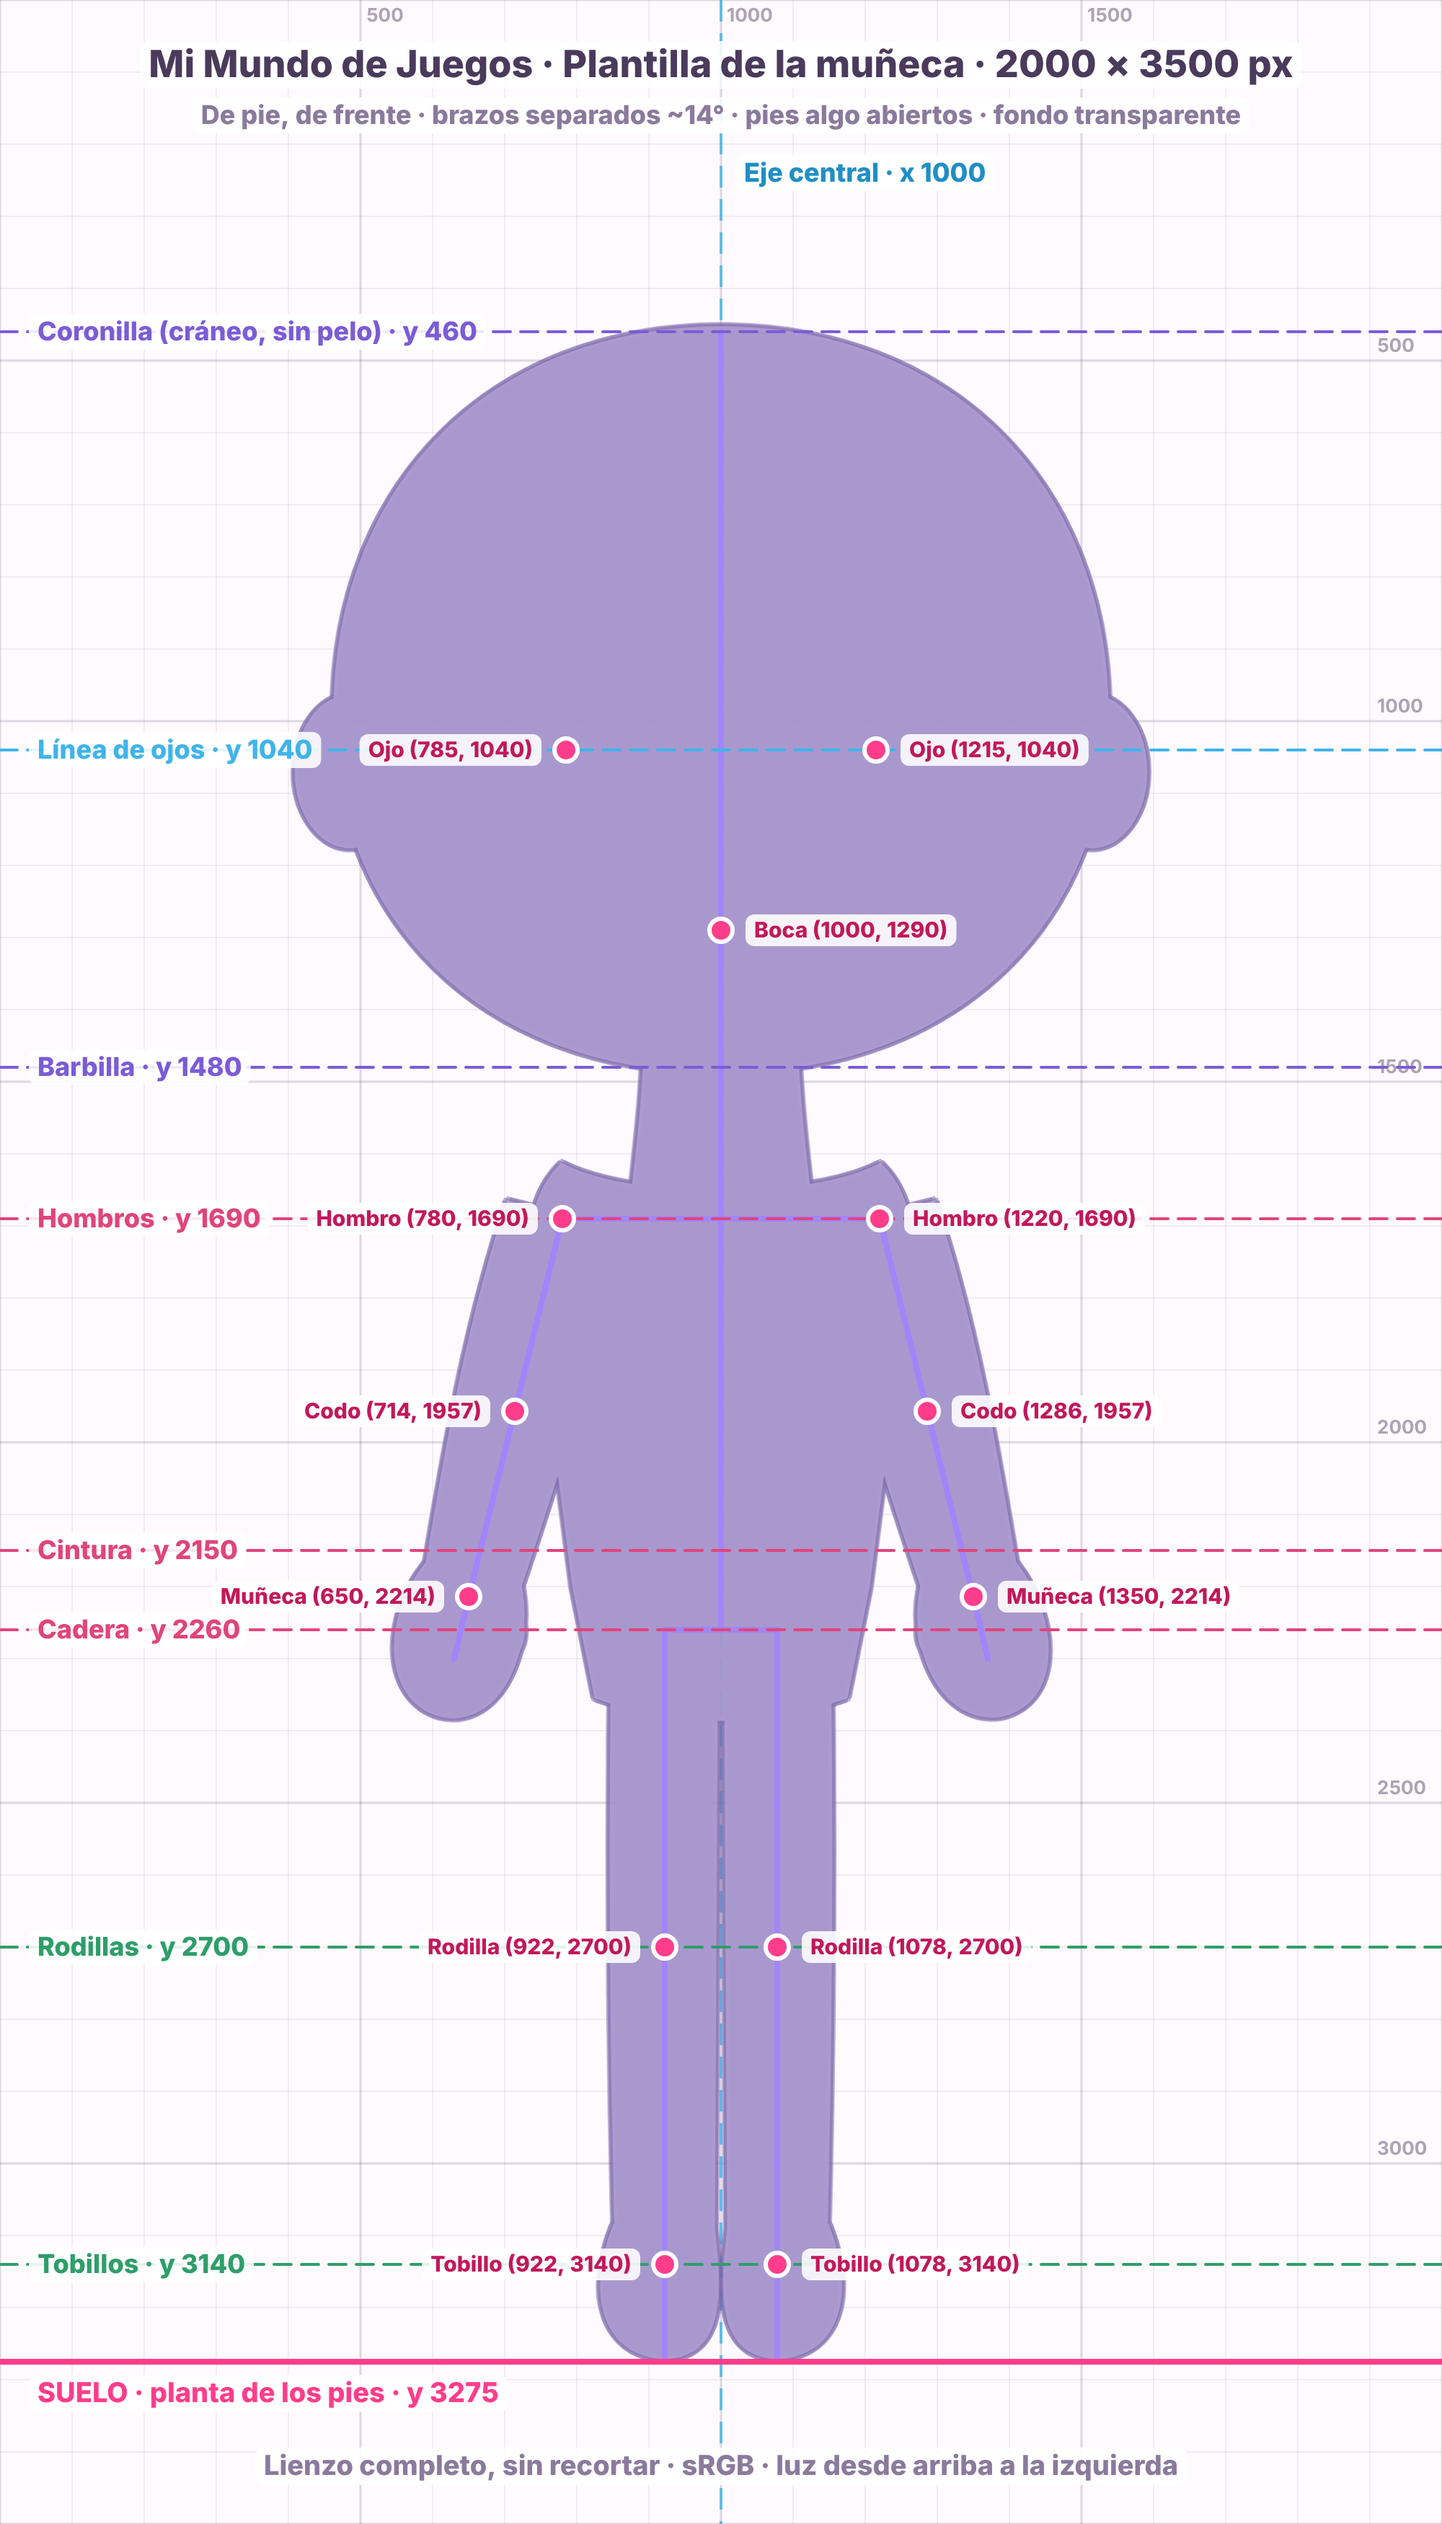
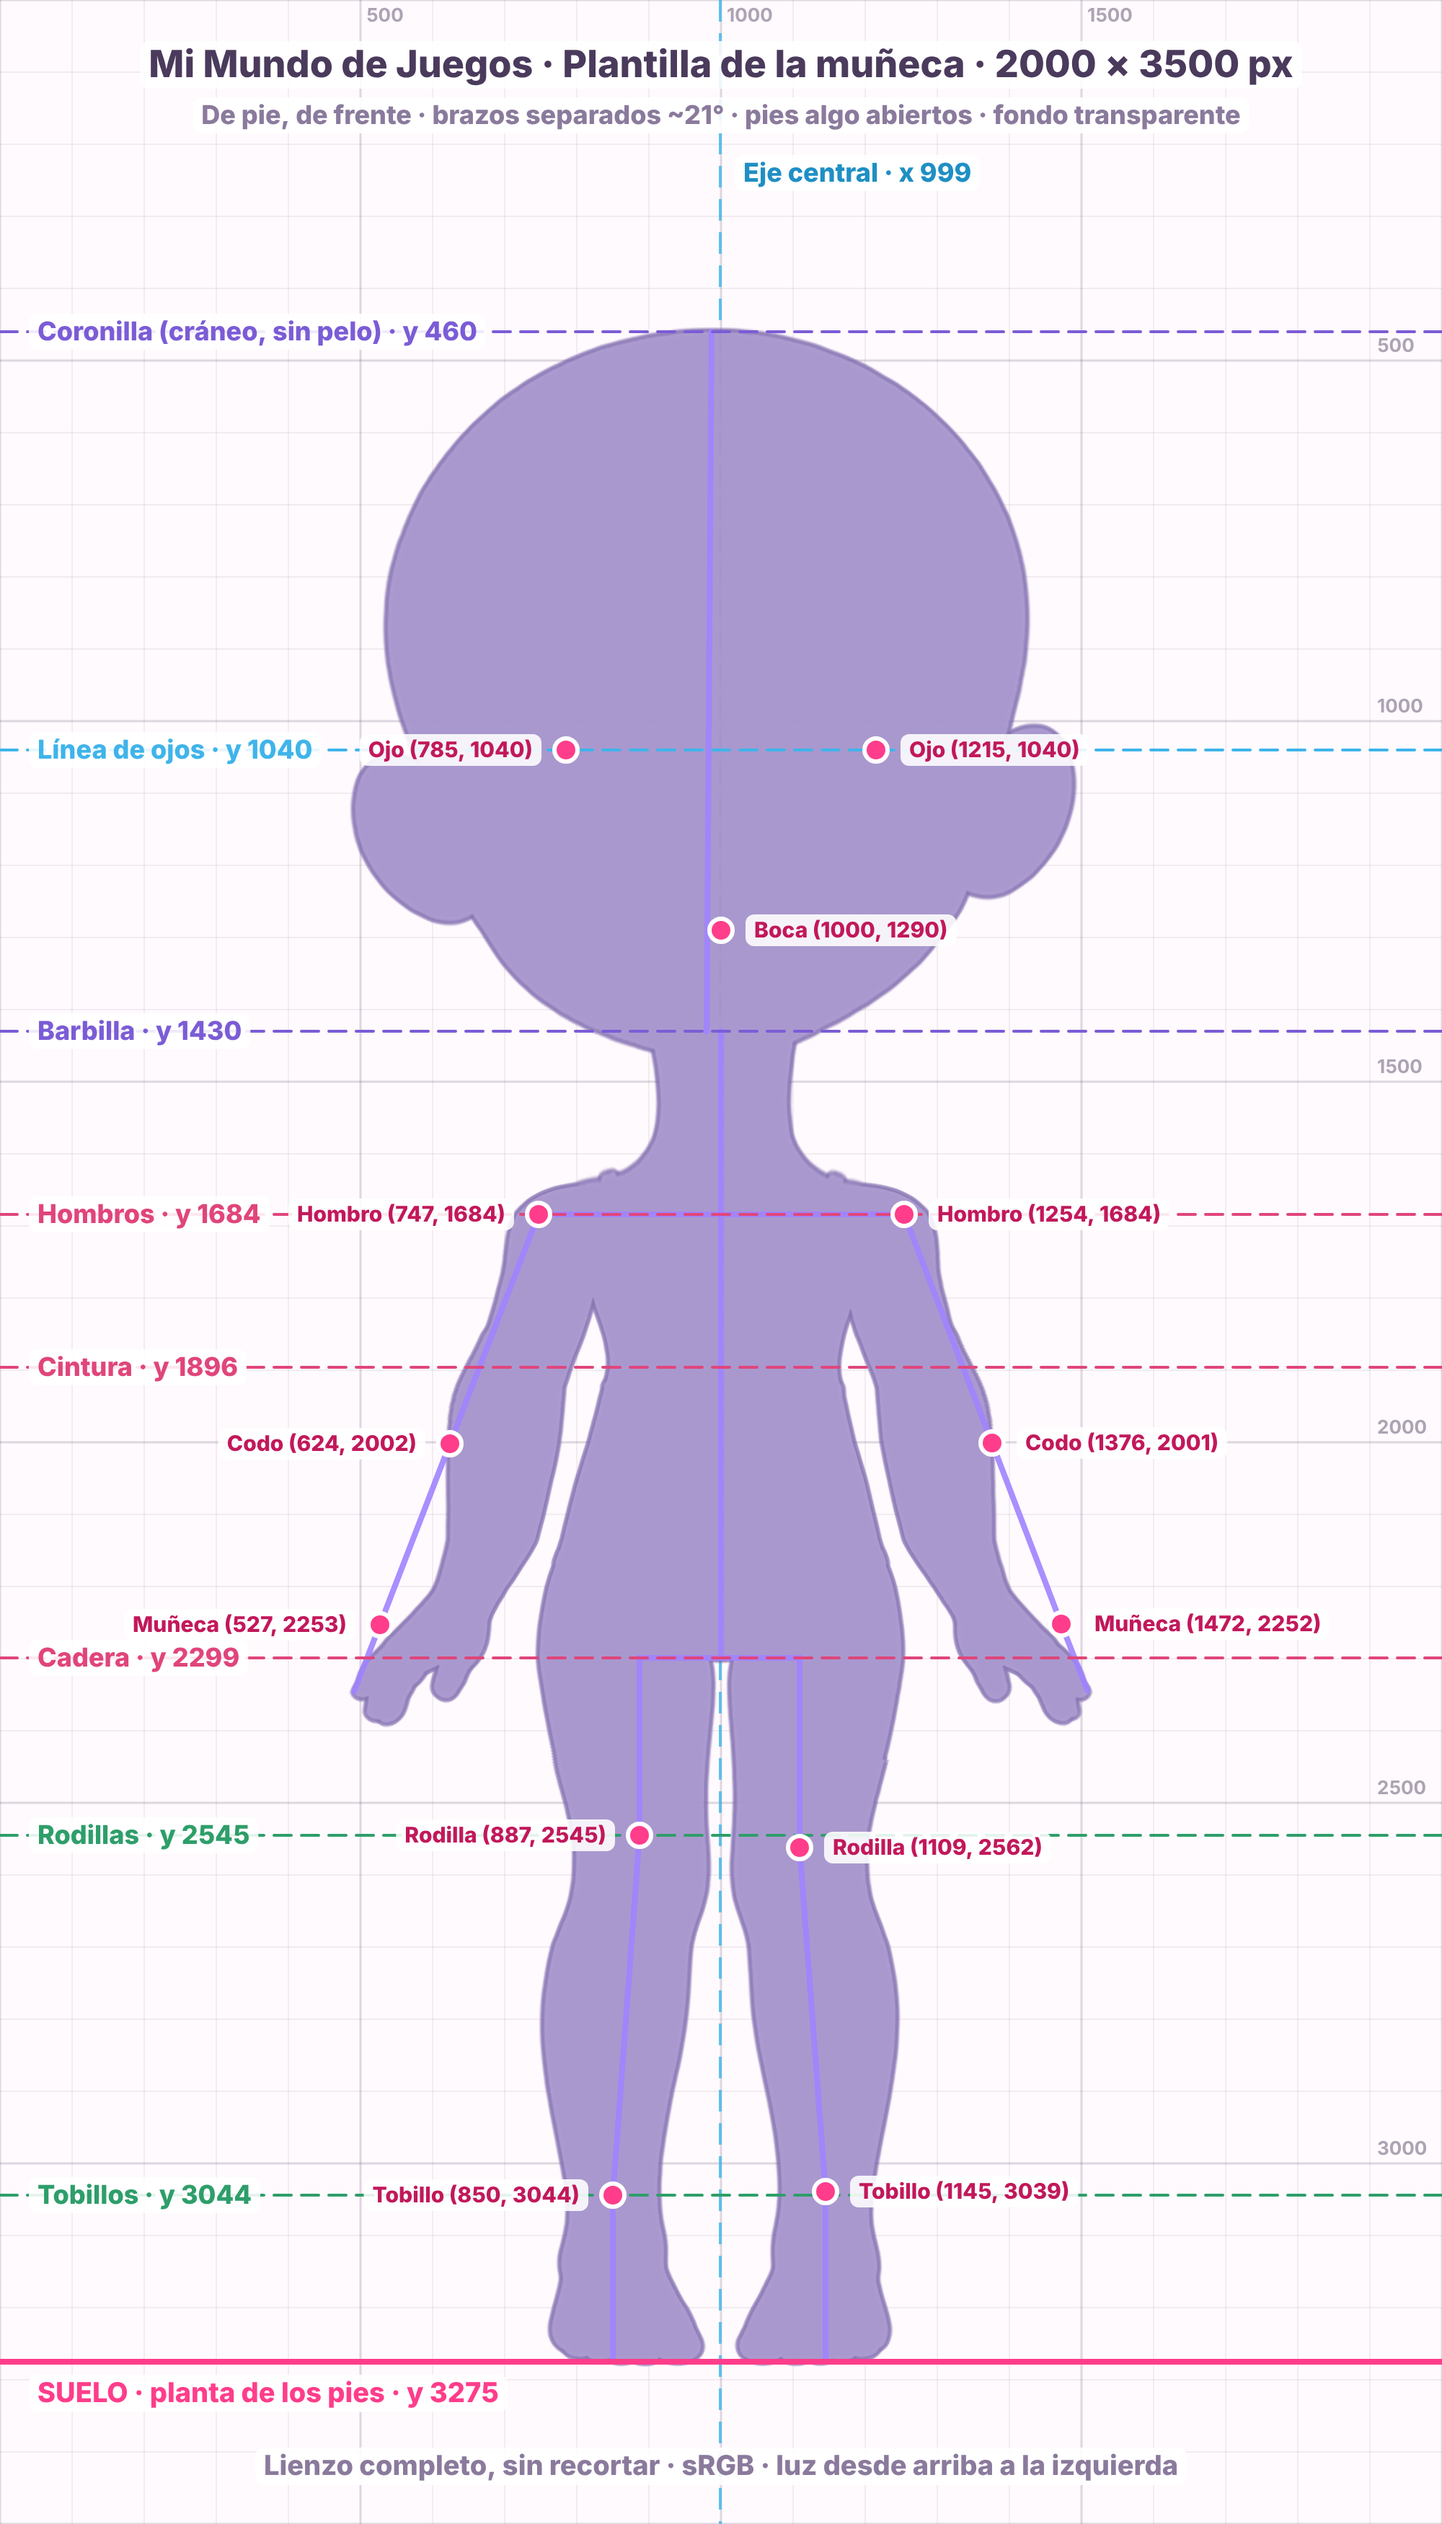
Plantilla definitiva con la base premium V2.1 aprobada
- arte/originales/base-clara.png: base premium V2.1 (codos y muslo
  retocados; cabeza, cuello y pies iguales que la V2).
- plantilla.js v2: medidas tomadas de la base (hombros 1684, cintura
  1896, cadera 2299, brazos a 21°…) y zonas de base, ropa y zapatos.
- Láminas de la plantilla y guías por pieza (ojos, pelo, vestido,
  zapatos y corona) generadas a partir de la base aprobada.
- Instrucciones y lista de archivos con las medidas nuevas.
- El juego sigue con la muñeca provisional hasta que lleguen ojos,
  pelo y ropa; ?arte=borrador muestra la base premium.
- Service worker v7.

Claude-Session: https://claude.ai/code/session_013yH6JXVk52qU5Y74NLTK6f

diff --git a/plantilla/plantilla.js b/plantilla/plantilla.js
@@ -4,37 +4,38 @@
    Lo usan: el comprobador de capas, el optimizador y el catálogo.
    ===================================================================== */
 self.AV_PLANTILLA = {
-  version: 1,
+  version: 2,
   lienzo: { w: 2000, h: 3500 },
-  postura: 'De pie, de frente, peso en las dos piernas, brazos relajados y separados del cuerpo unos 14°, palmas hacia las piernas, pies algo separados y un poco abiertos.',
+  postura: 'De pie, de frente, peso en las dos piernas, brazos relajados y separados del cuerpo unos 21°, palmas hacia las piernas, pies algo separados y un poco abiertos.',
   anclas: {
-    eje: 1000,             // línea central vertical del cuerpo
+    eje: 999,             // línea central vertical del cuerpo
     suelo: 3275,           // planta de los pies (sin zapatos)
-    coronilla: [1000, 460], // parte alta del cráneo, sin pelo
+    coronilla: [987, 460], // parte alta del cráneo, sin pelo
     cabeza: [1000, 970],    // centro de la cara
     ojos: 1040, ojoIzq: [785, 1040], ojoDer: [1215, 1040],
     boca: [1000, 1290],
-    barbilla: [1000, 1480],
-    hombroIzq: [780, 1690], hombroDer: [1220, 1690],
-    codoIzq: [714, 1957], codoDer: [1286, 1957],
-    munecaIzq: [650, 2214], munecaDer: [1350, 2214],
-    manoIzq: [630, 2300], manoDer: [1370, 2300],
-    cintura: 2150, cinturaIzq: 830, cinturaDer: 1170,
-    cadera: 2260,
-    rodillaIzq: [922, 2700], rodillaDer: [1078, 2700],
-    tobilloIzq: [922, 3140], tobilloDer: [1078, 3140],
-    pieIzq: [922, 3275], pieDer: [1078, 3275],
+    barbilla: [980, 1430],
+    hombroIzq: [747, 1684], hombroDer: [1254, 1684],
+    codoIzq: [624, 2002], codoDer: [1376, 2001],
+    munecaIzq: [527, 2253], munecaDer: [1472, 2252],
+    manoIzq: [491, 2346], manoDer: [1508, 2344],
+    cintura: 1896, cinturaIzq: 846, cinturaDer: 1160,
+    cadera: 2299,
+    rodillaIzq: [887, 2545], rodillaDer: [1109, 2562],
+    tobilloIzq: [850, 3044], tobilloDer: [1145, 3039],
+    pieIzq: [850, 3275], pieDer: [1145, 3275],
   },
   // Rectángulo donde puede haber dibujo en cada tipo de pieza [x0, y0, x1, y1]
   zonas: {
-    base:          { r: [380, 380, 1620, 3340], color: '#a083ff', nombre: 'Muñeca base' },
+    base:          { r: [451, 420, 1548, 3335], color: '#a083ff', nombre: 'Muñeca base' },
     'pelo-detras': { r: [100, 150, 1900, 2700], color: '#c98b55', nombre: 'Pelo (detrás)' },
     'pelo-delante':{ r: [150, 150, 1850, 2500], color: '#ff8f5a', nombre: 'Pelo (delante)' },
     ojos:          { r: [560, 880, 1440, 1220], color: '#3d8ee0', nombre: 'Ojos' },
-    ropa:          { r: [300, 1450, 1700, 3300], color: '#ff6fae', nombre: 'Ropa' },
-    zapatos:       { r: [700, 2950, 1300, 3340], color: '#3fb4ea', nombre: 'Zapatos' },
+    ropa:          { r: [411, 1400, 1588, 3305], color: '#ff6fae', nombre: 'Ropa' },
+    zapatos:       { r: [590, 2784, 1405, 3340], color: '#3fb4ea', nombre: 'Zapatos' },
     acc:           { r: [0, 0, 2000, 3500], color: '#5fd39b', nombre: 'Accesorios' },
   },
+  // Medidas tomadas de la base con herramientas/medir_base.py
   // Márgenes de error para el comprobador (px en el lienzo de 2000 × 3500)
   tolerancia: { aviso: 8, error: 20 },
 };

diff --git a/sw.js b/sw.js
@@ -3,7 +3,7 @@
 // llevan una huella del contenido, así nunca se muestra una versión antigua.
 importScripts('avatar/arte/piezas.js');
 // Subir la versión cada vez que cambie un archivo de FILES (no hace falta para el arte: lleva huella).
-const C='mis-juegos-v6',ARTE='mis-juegos-arte';
+const C='mis-juegos-v7',ARTE='mis-juegos-arte';
 const FILES=['./','./index.html','./manifest.json','./icon-192.png','./icon-512.png','./avatar/avatar.css','./avatar/catalogo.js','./avatar/catalogo-muneca.js',
   './avatar/motor.js','./avatar/arte/piezas.js','./plantilla/plantilla.js'];
 const PIEZAS=Object.values((self.AV_PIEZAS||{}).piezas||{}).flatMap(p=>Object.values(p.v).map(u=>'./'+u));

diff --git a/avatar/arte/piezas.js b/avatar/arte/piezas.js
@@ -10,6 +10,20 @@ self.AV_PIEZAS = {
   "m": 0.5
  },
  "piezas": {
+  "base-clara": {
+   "x": 480,
+   "y": 460,
+   "w": 1040,
+   "h": 2820,
+   "v": {
+    "s": "avatar/arte/s/base-clara.5682c2d0.webp",
+    "m": "avatar/arte/m/base-clara.5682c2d0.webp"
+   },
+   "kb": {
+    "s": 42.9,
+    "m": 80.1
+   }
+  },
   "demo-diario": {
    "x": 60,
    "y": 360,

diff --git a/plantilla/ASSETS.md b/plantilla/ASSETS.md
@@ -7,6 +7,11 @@ En cuanto estos archivos estén en `arte/originales/` y pasen el comprobador, el
 muñeca premium en lugar de la provisional, sin tocar el código (`herramientas/optimizar.py`
 y listo).
 
+## Base aprobada
+
+`arte/originales/base-clara.png` (V2.1, aprobada): cuello de 214 px, hombros en y 1684, brazos a 21°.
+Las medidas están en `plantilla/plantilla.js` (versión 2) y cada capa tiene su guía en `plantilla/guias/`.
+
 ## Proporciones acordadas para la base definitiva
 
 * Cabeza grande, mejillas sonrosadas y acabado de ilustración infantil premium (como la base v1).
@@ -24,7 +29,7 @@ y listo).
 | Tamaño | **2000 × 3500 px exactos** |
 | Lienzo | **Completo, sin recortar.** Cada pieza en su sitio dentro del lienzo; el optimizador la recorta después y guarda su posición |
 | Transparencia | **Sí, obligatoria.** Todo lo que no es la pieza, transparente (sin fondo, sin sombra en el suelo) |
-| Plantilla | **Sí.** Eje x = 1000, suelo y = 3275, línea de ojos y = 1040 (ver `plantilla-guia.png`) |
+| Plantilla | **Sí.** Eje x = 999, suelo y = 3275, línea de ojos y = 1040 (ver `plantilla-guia.png`) |
 | Encaje | Todas las piezas dibujadas **sobre la misma muñeca base**, sin moverla ni escalarla entre una y otra |
 | Luz | Desde arriba a la izquierda, igual en todas las piezas |
 | Bordes | Antialias limpio, sin halo blanco ni restos de fondo (verde) entre los rizos |
@@ -34,7 +39,7 @@ y listo).
 
 | # | Archivo | Qué contiene | Zona (x, y en px) | ¿Completar lo que queda tapado? |
 |---|---|---|---|---|
-| 1 | `base-clara.png` | Muñeca descalza, piel clara: cabeza, cara **sin ojos** (piel lisa donde van los ojos; sí cejas, nariz, boca sonriente y mejillas), orejas, cuello, brazos y manos, torso con **maillot sencillo** (blanco o rosa muy claro), piernas y pies. **Sin pelo** | 380–1620, 380–3340 | **Sí, todo el cuerpo completo**: cráneo liso con nacimiento del pelo suave, orejas, hombros, brazos enteros, torso y piernas hasta la cadera, aunque luego los tape la ropa o el pelo |
+| 1 | `base-clara.png` | Muñeca descalza, piel clara: cabeza, cara **sin ojos** (piel lisa donde van los ojos; sí cejas, nariz, boca sonriente y mejillas), orejas, cuello, brazos y manos, torso con **maillot sencillo** (blanco o rosa muy claro), piernas y pies. **Sin pelo** | 451–1548, 420–3335 (ya aprobada: V2.1) | **Sí, todo el cuerpo completo**: cráneo liso con nacimiento del pelo suave, orejas, hombros, brazos enteros, torso y piernas hasta la cadera, aunque luego los tape la ropa o el pelo |
 | 2 | `base-morena.png` | La **misma** base con piel morena (mismo dibujo, solo cambia el color de la piel). **Puedo preparar el borrador automáticamente** a partir de la clara | igual que la 1 | Sí, igual que la 1 |
 | 3 | `ojos-marron.png` | Los **dos ojos abiertos** completos: blanco, iris marrón, pupila, brillos, línea del párpado y pestañas | 560–1440, 880–1220 | No. Solo los ojos, encajados en la cara de la base |
 | 4 | `ojos-azul.png` | Idéntico al 3, con el iris azul (mismos brillos y pestañas, misma posición). **Borrador automático** a partir del 3 y de la máscara del iris | igual que la 3 | No |
@@ -42,8 +47,8 @@ y listo).
 | 6 | `ojos-cerrados-morena.png` | Igual que el 5 en piel morena. **Borrador automático** a partir del 5 | igual que la 3 | No, igual que la 5 |
 | 7 | `pelo-rizos-detras-castano.png` | Toda la masa de rizos que queda **por detrás** de la cabeza y del cuerpo (espalda y lados) | 100–1900, 150–2700 | **Sí**: pintar también la zona que tapa la cabeza (al menos 80 px hacia dentro), para que no queden huecos |
 | 8 | `pelo-rizos-delante-castano.png` | Lo que queda **por delante**: flequillo, rizos sobre la frente, la cara, los hombros o el pecho. **Sin piel** | 150–1850, 150–2500 | Tapar siempre la coronilla de la base (nacimiento del pelo) |
-| 9 | `ropa-princesa.png` | Vestido de princesa completo con mangas y lazo. **Sin zapatos y sin piel** | 300–1700, 1450–3300 | **Sí**: hombros y espalda del vestido bajo el pelo de delante, y la parte del cuerpo bajo los brazos |
-| 10 | `zapatos-princesa.png` | El par de zapatos, con los calcetines si los lleva | 700–1300, 2950–3340 | **Sí**: el zapato entero, aunque el vestido tape la parte de arriba. Suela en y = 3275 o un poco por debajo |
+| 9 | `ropa-princesa.png` | Vestido de princesa completo con mangas y lazo. **Sin zapatos y sin piel** | 411–1588, 1400–3305 | **Sí**: hombros y espalda del vestido bajo el pelo de delante, y la parte del cuerpo bajo los brazos |
+| 10 | `zapatos-princesa.png` | El par de zapatos, con los calcetines si los lleva | 590–1405, 2784–3340 | **Sí**: el zapato entero, aunque el vestido tape la parte de arriba. Suela en y = 3275 o un poco por debajo |
 | 11 | `acc-corona.png` | Corona apoyada sobre el pelo de delante | 300–1700, 150–900 (recomendado) | No. Sin pelo dentro de la capa |
 
 Opcional (recomendado para comparar): `referencia-completa.png`, la muñeca entera montada

diff --git a/plantilla/INSTRUCCIONES.md b/plantilla/INSTRUCCIONES.md
@@ -17,27 +17,31 @@ ropa elaborada, acabado de animación infantil y colores pastel.
 | `plantilla-zonas.png` | Hasta dónde puede llegar cada tipo de pieza. |
 | `plantilla.js` | Las mismas medidas en datos (las usan el comprobador y el juego). |
 
-### Medidas fijas (lienzo 2000 × 3500 px)
+### Medidas fijas (lienzo 2000 × 3500 px) · plantilla v2, tomadas de la base premium V2.1 aprobada
 
 | Referencia | Posición |
 |---|---|
-| Eje central | x = 1000 |
+| Eje central | x = 999 |
 | **Suelo (planta de los pies, descalza)** | **y = 3275** |
-| Coronilla (cráneo, sin pelo) | y ≈ 460 |
+| Coronilla (cráneo, sin pelo) | y = 460 |
 | **Línea de ojos** | **y = 1040** (ojos en x ≈ 785 y 1215) |
 | Boca | y ≈ 1290 |
-| Barbilla | y ≈ 1480 |
-| Hombros | (780, 1690) y (1220, 1690) |
-| Codos | (714, 1957) y (1286, 1957) |
-| Muñecas | (650, 2214) y (1350, 2214) |
-| Cintura | y = 2150 |
-| Cadera | y = 2260 |
-| Rodillas | (922, 2700) y (1078, 2700) |
-| Tobillos | (922, 3140) y (1078, 3140) |
+| Barbilla | y = 1430 |
+| Hombros | (747, 1684) y (1254, 1684) |
+| Codos | (624, 2002) y (1376, 2001) |
+| Muñecas | (527, 2253) y (1472, 2252) |
+| Manos (punta de los dedos) | (491, 2346) y (1508, 2344) |
+| Cintura | y = 1896 (x 846–1160) |
+| Cadera / entrepierna | y = 2299 |
+| Rodillas | (887, 2545) y (1109, 2562) |
+| Tobillos | (850, 3044) y (1145, 3039) |
 
 **Postura:** de pie y de frente, con el peso en las dos piernas. Los brazos relajados y
-separados del cuerpo unos 14°, con las palmas hacia las piernas. Los pies algo separados
+separados del cuerpo unos 21°, con las palmas hacia las piernas. Los pies algo separados
 y un poco abiertos. Expresión: sonrisa tranquila con los ojos abiertos.
+
+**La base aprobada es `arte/originales/base-clara.png`: todas las piezas se dibujan encima de
+ella**, con la guía de su capa (`plantilla/guias/`) como referencia.
 
 > **Lo imprescindible:** el eje, el suelo y la línea de ojos deben coincidir.
 > La silueta marca proporciones orientativas. Cuando aprobemos la muñeca base,
